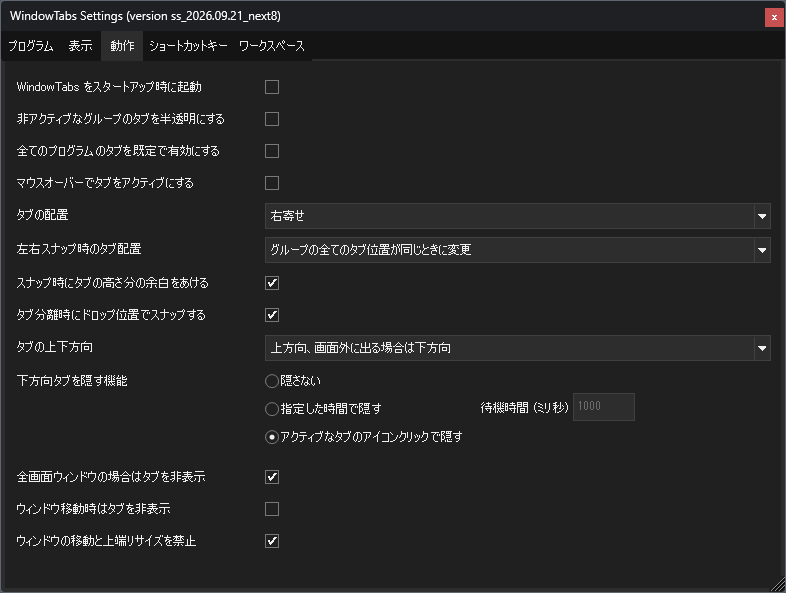
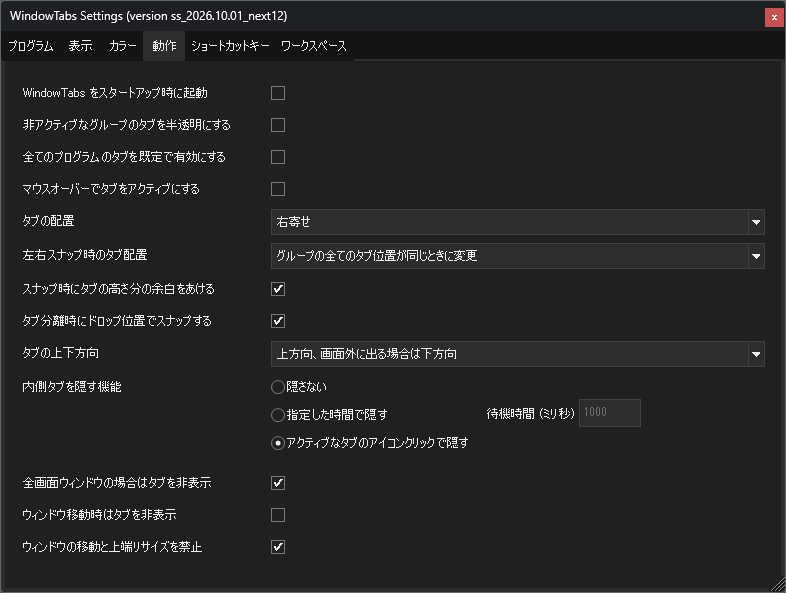
update README

diff --git a/README_Japanese.md b/README_Japanese.md
@@ -363,12 +363,18 @@ leafOfTree 氏も様々な改良を加えたフォークを作成しています
 
 - **タブの形**: S字・角丸縦線・強い角丸縦線・角ばった縦線・台形・右切り欠き台形・左切り欠き台形・長方形・角丸長方形・強い角丸長方形・角ばった長方形の11種類から選べます。選ぶとすぐにタブに反映され、再起動は不要です。既定はS字です。
 - **タブの高さ・幅・重なり・端からの距離**: 数値で調整できます。各項目の右のボタンで既定値に戻せます。
+
+![Settings Appearance](README_Image/SettingsAppearance_Japanese.png)
+![Settings Appearance Tab Shape](README_Image/SettingsAppearanceTabShape_Japanese.png)
+
+### カラータブ
+
+- **ダークモード**: メニューと設定画面をダークモードにします。
 - **タブカラーテーマ**: 既定のテーマから選ぶか、色を編集して名前を付けて保存できます。クリップボード操作で、テーマをテキストとして書き出し・読み込みできます。
 
 よいカラーテーマを作成された方は、ぜひ [GitHub Issues](https://github.com/standard-software/WindowTabs/issues) に投稿してください。既定のカラーテーマとして組み込ませていただく場合もあります。
 
-![Settings Appearance](README_Image/SettingsAppearance_Japanese.png)
-![Settings Appearance Tab Shape](README_Image/SettingsAppearanceTabShape_Japanese.png)
+![Settings Color](README_Image/SettingsColor_Japanese.png)
 ![Settings AppearanceColorTheme](README_Image/SettingsAppearanceColorTheme.png)
 ![Settings AppearanceColorThemeClipboard](README_Image/SettingsAppearanceColorThemeClipboard.png)
 

diff --git a/README.md b/README.md
@@ -363,12 +363,18 @@ Right-click the tray icon, or right-click a tab, and choose "Settings...". Tray 
 
 - **Tab shape**: Choose from eleven shapes - S-curve, rounded vertical line, strong rounded vertical line, angular vertical line, trapezoid, right-cut trapezoid, left-cut trapezoid, rectangle, rounded rectangle, strong rounded rectangle and angular rectangle. The tabs change at once, without restarting. The default is the S-curve.
 - **Tab height, width, overlap and distance from the edge**: Set as numbers. The button to the right of each puts back its default.
+
+![Settings Appearance](README_Image/SettingsAppearance.png)
+![Settings Appearance Tab Shape](README_Image/SettingsAppearanceTabShape.png)
+
+### Color Tab
+
+- **Dark mode**: Switches the menus and the settings dialog to dark mode.
 - **Tab color theme**: Pick a preset, or edit the colors and save them under a name. The clipboard menu writes a theme out as text and reads one in.
 
 If you create a nice color theme, please share it at [GitHub Issues](https://github.com/standard-software/WindowTabs/issues). Your theme may be included as a preset theme.
 
-![Settings Appearance](README_Image/SettingsAppearance.png)
-![Settings Appearance Tab Shape](README_Image/SettingsAppearanceTabShape.png)
+![Settings Color](README_Image/SettingsColor.png)
 ![Settings AppearanceColorTheme](README_Image/SettingsAppearanceColorTheme.png)
 ![Settings AppearanceColorThemeClipboard](README_Image/SettingsAppearanceColorThemeClipboard.png)
 
